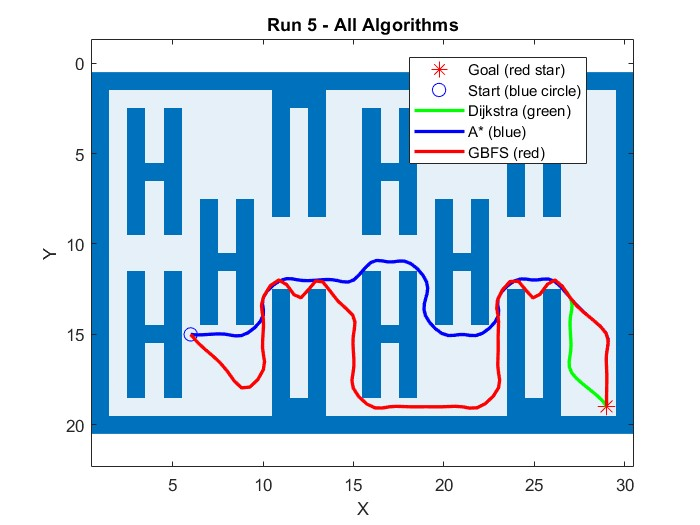
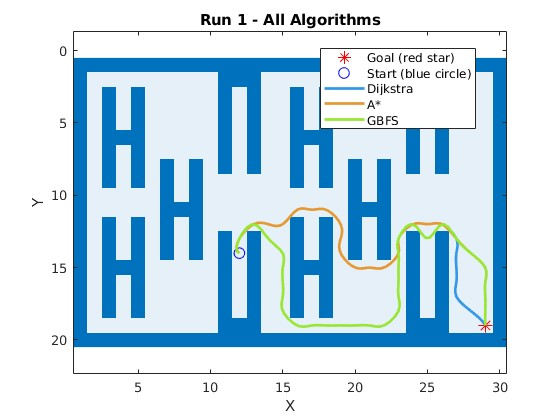
fixed colors and improved readme

diff --git a/simulation4.m b/simulation4.m
@@ -67,7 +67,9 @@ for i = 1:num_runs
     plot(start_points(i, 2), start_points(i, 1), 'bo', 'MarkerSize', 8);  % Plot random start point (blue circle)
     
     % Colors for each algorithm: Dijkstra = green, A* = blue, GBFS = red
-    algorithm_colors = {'g', 'b', 'r'}; 
+    colors = {[0.2 0.6 0.9], [0.9 0.6 0.2], [0.6 0.9 0.2]};
+
+    algorithm_colors = colors;%{'g', 'b', 'r'}; 
     
     for j = 1:num_algorithms
         planner_name = algorithms{j};
@@ -107,13 +109,13 @@ for i = 1:num_runs
             path_interp = interp1(t, path, t_interp, 'spline');  % Spline interpolation
 
             % Plot the smoothed path with assigned color for each algorithm
-            plot(path_interp(:, 2), path_interp(:, 1), algorithm_colors{j}, 'LineWidth', 2);  
+            plot(path_interp(:, 2), path_interp(:, 1), 'Color', algorithm_colors{j}, 'LineWidth', 2);  
         end
         costs(i, j) = cost;  % Store cost
     end
     
     % Update the legend for the current plot
-    legend({'Goal (red star)', 'Start (blue circle)', 'Dijkstra (green)', 'A* (blue)', 'GBFS (red)'}, 'Location', 'best');
+    legend({'Goal (red star)', 'Start (blue circle)', 'Dijkstra', 'A*', 'GBFS'}, 'Location', 'best');
     
     hold off;
     pause(1);  % Pause to allow viewing before proceeding to the next run

diff --git a/README1.md b/README1.md
@@ -1,15 +1,13 @@
 # Scenario Description: Robot Path Planning in a Warehouse
+We have a warehouse robot which is tasked with fetching items from any shelf in the warehouse and bringing them to a conveyor belt for packaging. This means that the start and endpoint of every fetch is the same. To simplify the model we can say that we only go oneway: from the shelf to the drop off point.
 
-In this study, we simulate the task of a robot operating in a warehouse environment. 
-The robot is tasked with efficiently transporting goods between various storage locations. 
-Effective navigation is crucial to ensure smooth operations, minimize transport costs, and reduce time delays. 
 For this purpose, we compare three different path-planning algorithms: **Dijkstra**, **A\***, and **Greedy Best-First Search (GBFS)**. 
-These algorithms are tested under different conditions and evaluated based on key metrics such as path cost and path length. Additionally, we consider other relevant factors, such as the number of required recomputations when obstacles are introduced dynamically during the robot's movement.
+These algorithms are tested under different conditions and evaluated based on key metrics such as time to compute the path and path length.
 
 ## Motivation and Goal
 
 The goal of this study is to improve the operational efficiency of warehouse robots by determining the most suitable path-planning algorithm. 
-We aim to identify the algorithm that minimizes transportation costs while ensuring reliability and timely delivery of goods, even in dynamic and uncertain environments.
+We aim to identify the algorithm that minimizes transportation costs, which means the length of the path and the time to compute it 
 
 ## Hypothesis
 
@@ -31,164 +29,82 @@ The algorithms are implemented in MATLAB, and custom functions are used to visua
 
 The environment is a grid-based warehouse layout with varying storage and obstacle placements. Random start and goal points are selected for each run, ensuring fair comparison across algorithms. The key parameters examined include:
 
-- **Path cost**: Total cost of the path, calculated based on the grid distance.
+
 - **Path length**: Number of grid squares traveled by the robot.
-- **Recomputations**: The number of times the robot must recompute its path when dynamic obstacles appear.
+- **Computation Time**: Total time to execute the algorithm
 
 ## Statistical Tools
-
-Several statistical methods are used to evaluate the performance of each algorithm. For continuous metrics like path cost and length, we generate histograms to observe distribution patterns. Additionally, we calculate the mean and variance of costs to identify trends. For dynamic scenarios, we track the frequency of recomputations and plot how often each algorithm is forced to recalculate the path. In some cases, we also use box plots to visualize the distribution of path lengths and costs, including any outliers.
+We indentify the average and standard deviation for all of our algorithms.
 
 ---
 
 # Path Length Comparison for Different Algorithms
 
-## Overview
-The performance of **Dijkstra**, **A\***, and **GBFS** algorithms was evaluated based on the **path lengths** they generated during navigation in a 20x20 grid-based warehouse environment. 
+## The Setup
+The performance of **Dijkstra**, **A\***, and **GBFS** algorithms was evaluated in our virtual Warehouse. 
+![Path Length Comparison](res/warehouse.png)\
+Where the blue square is the drop off location and the black squares are the shelves and walls.\
+We then did two sets of runs. One with close targets and one with far targets.
 
-The goal position was set at **[18, 29]**, and random start points were generated for each of the five runs. The algorithms were compared based on the length of the paths they generated to the goal.
+## Run Sets
+### Run Set 1
+In the first Run Set we performed 30 fetches wich were up to 15 length units away from our drop off point.\
+![Path Length Comparison](res/close_pickup_start_points.png)\
+We executed all three algorithms on these 30 pickup points and recorded the length of their path as well as their time to calculate it.
+#### Analysis
+![Path Length Comparison](res/close_pickup_res.png)\
+In this path length comparison we see the bars which indicate the average path length for this algorithm for all 30 runs. The error bars show the standard deviation.\
+We can see, that dijkstra and a* arrived at very similar values, while gbfs selects longer paths on average. It is also noteworthy, that gbfs has a lot higher variability in its results.\
+For us this means, that both, dijkstra as well as a* seem feasible for now, while gbfs does not seem like a good fit.\
+![Path Length Comparison](res/close_pickup_time.png)\
+In this graph we can see the average measured time to compute the path for the 30 start points. The error bars again show the standard deviation in this set.\
+It is easy to see, that dijkstra takes by far the longest to compute and has the highes variability in its computation times. Whilst A* and GBFS are similar, GBFS is faster on average.\
+This means for us, that A* is the preferred algorithm due to its similar performance in path length to dijkstra, but significantly better performance in terms of time.
 
----
-
-### Key Statistics
-
- Algorithm      MeanPathLength    MeanTime    MeanCost
-    ____________    ______________    ________    ________
-
-    {'Dijkstra'}          23.4          0.2595     26.126 
-    {'A*'      }        24.033        0.038993     26.527 
-    {'GBFS'    }        28.733        0.011029     32.343 
-
-The mean and median path lengths for all algorithms are quite similar. Dijkstra and A\* algorithms demonstrated more optimal paths, while GBFS exhibited slightly less optimal performance.
-
----
-
-### Path Length Per Run
-
-Below is a bar chart comparing the path length per run for the different algorithms:
-
-![Path Length Comparison](Images/Path_Length.jpg)
-
-#### Observations:
-1. **Run 1**: All algorithms produced similar path lengths (~23 nodes).
-2. **Run 2**: A\* and GBFS resulted in slightly shorter paths (~14 nodes) compared to Dijkstra (~16 nodes).
-3. **Run 3**: All algorithms showed similar performance with longer paths (~30 nodes).
-4. **Run 4**: Dijkstra found a slightly shorter path (~6 nodes), whereas A\* and GBFS produced identical paths (~6 nodes).
-5. **Run 5**: All algorithms produced similar path lengths (~13 nodes).
-
----
-
-# Cost Results
-
-### Key Statistics
-
- Algorithm      MeanPathLength    MeanTime    MeanCost
-    ____________    ______________    ________    ________
-
-    {'Dijkstra'}          23.4          0.2595     26.126 
-    {'A*'      }        24.033        0.038993     26.527 
-    {'GBFS'    }        28.733        0.011029     32.343 
+### Run Set 2
+In the second set of runs we performed 30 more fetches from locations which were more than 15 length units away from the drop off point.\
+![Path Length Comparison](res/far_pickup_start_points.png)\
+We executed all three algorithms on these 30 pickup points and recorded the length of their path as well as their time to calculate it.\
+![Path Length Comparison](res/far_pickup_res.png)\
+In this path length comparison we see the bars which indicate the average path length for this algorithm for all 30 runs. The error bars show the standard deviation.\
+Again we can see, that dijkstra and a* arrived at very similar values, while gbfs selects longer paths on average. \
+This confirms our data from the first set of runs, although the differences are now more obvious.\
+![Path Length Comparison](res/far_pickup_time.png)\
+In this graph we can see the average measured time to compute the path for the 30 start points. The error bars again show the standard deviation in this set.\
+Dijkstra again takes the longest to calculate, while A* and gbfs are close together.\
+Although the relative differences between A* and Dijkstra are now significantly smaller than in the first set of runs, A* still outperforms Dijkstra.
 
 
-### Cost Per Run
-
-![Cost Comparison](Images/Cost2.jpg)
-
-#### Discussion:
-
-1. **Run 1**: Dijkstra and GBFS incurred higher costs (~25), while A\* had a slightly lower cost (~23). This suggests that A* may be more efficient in simpler scenarios.
-2. **Run 2**: A\* and GBFS produced identical costs (~14), while Dijkstra had a slightly higher cost (~16), likely due to its computation of the most optimal path.
-3. **Run 3**: All algorithms exhibited the same cost (~25), demonstrating convergence when dealing with more complex paths.
-4. **Run 4**: The costs varied noticeably, with Dijkstra being the most efficient (~5), and A\* and GBFS incurring similar costs (~7).
-5. **Run 5**: All algorithms produced similar costs (~20), with only minor differences.
-
----
-
-# Conclusion (Cost and Path Length)
-
-### Summary of Findings
-
-Based on the simulation results, both **path length** and **cost** show consistent patterns across the three algorithms:
-
-1. **Dijkstra's Algorithm**:
-   - **Path Length**: Dijkstra consistently found the shortest paths but at the expense of slightly higher computational cost.
-   - **Cost**: The cost associated with Dijkstra was typically higher, particularly in less complex environments. However, it performed well in complex layouts by finding more optimal paths.
-
-2. **A\* Algorithm**:
-   - **Path Length**: A* delivered efficient paths, striking a balance between path length and computational expense.
-   - **Cost**: A* incurred lower costs compared to Dijkstra, making it a good option for environments where both path optimality and computational efficiency are important.
-
-3. **GBFS Algorithm**:
-   - **Path Length**: GBFS was faster but often produced suboptimal paths, especially in more complex environments.
-   - **Cost**: GBFS had higher costs than A*, and in some cases comparable to Dijkstra. It is better suited for simpler environments where speed is the priority.
-
----
-
-# Additional Algorithm Performance Analysis: Dijkstra, A*, and GBFS
-
- Algorithm      MeanPathLength    MeanTime    MeanCost
-    ____________    ______________    ________    ________
-
-    {'Dijkstra'}          23.4          0.2595     26.126 
-    {'A*'      }        24.033        0.038993     26.527 
-    {'GBFS'    }        28.733        0.011029     32.343 
-
-
----
-
-## 1. Path Length Analysis:
-- **Dijkstra** and **A*** both have the same **mean path length** of **11.4**, while **GBFS** shows a higher path length with **13.0**. This implies that **GBFS** generally finds longer paths to the goal, which could be due to its heuristic nature.
-- The **median path lengths** of **9** for all three algorithms suggest that while **GBFS** has a higher mean path length, the typical path length it finds is similar to Dijkstra and A*. However, the higher mean shows it occasionally finds longer paths, which skews the average.
-
-## 2. Time Performance Analysis:
-- **Dijkstra** is significantly slower, with a mean time of **0.1935 seconds**, compared to **A*** (**0.0087 seconds**) and **GBFS** (**0.0038 seconds**). 
-- **A*** is more efficient than Dijkstra, using heuristics to prioritize paths and speed up computation, while still producing optimal paths.
-- **GBFS** is the fastest algorithm but sacrifices optimality in terms of path length and cost.
-
-## 3. Cost Analysis:
-- **Dijkstra** and **A*** have very similar costs (**11.6** and **11.94**, respectively), meaning both algorithms found paths with minimal cost.
-- **GBFS** has a higher mean cost of **14.04**, reflecting that it tends to find less optimal paths because it prioritizes speed over path optimality.
-
----
 
 ## Visual Results (Additional Analysis)
+We also visualized every run in the second set to get a better overview of the data.
 
 ### 1. Path Lengths per Run
-This diagram shows the path lengths found by each algorithm for 5 different runs.
+This diagram shows the path lengths found by each algorithm for 30 different runs in the second set.
 
 ![Paths Length](Images/Path_lengths.jpg)
 
 ### 2. Time Taken per Run
-This diagram shows the computation time taken by each algorithm for 5 different runs.
+This diagram shows the computation time taken by each algorithm for 30 different runs in the second.
 
 ![Time Diagram](Images/Time_diagram.jpg)
 
-### 3. Frequency of Path Lengths
-This histogram shows the distribution of path lengths found by each algorithm over 5 runs.
-
-![Frequency](Images/Frequency.jpg)
-
 ### 4. Paths Visualized on the Grid Map
-This image shows the paths found by each algorithm (color-coded) on the grid map for various start and goal points.
+This image shows the paths found by each algorithm (color-coded) on the grid map for various start points. This may help to understand the working of the algorithms
 
-![Map](Images/Map.jpg)
 ![Map](Images/Map1.jpg)
-![Map](Images/Map2.jpg)
 ![Map](Images/Map3.jpg)
 ![Map](Images/Map4.jpg)
 
 ---
 
 ### Final Thoughts
-    Algorithm      MeanPathLength    MeanTime    MeanCost
-    ____________    ______________    ________    ________
+Algorithm | MeanPathLength | MeanTime | MeanCost
+---|---|---|---
+Dijkstra | 23.4 | 0.2595 | 26.126
+A* | 24.033 | 0.038993 | 26.527
+GBFS | 28.733 | 0.011029 |32.343 
 
-    {'Dijkstra'}          23.4          0.2595     26.126 
-    {'A*'      }        24.033        0.038993     26.527 
-    {'GBFS'    }        28.733        0.011029     32.343 
-
-
->> 
-- **A\*** proved to be the most balanced algorithm in terms of both **path length** and **cost**, offering efficient paths with relatively lower costs.
+- **A\*** proved to be the most balanced algorithm in terms of both **path length** and **time**, offering efficient paths with relatively lower computation times.
 - **Dijkstra** is more suited for environments that require high path accuracy but may incur higher computational expenses.
 - **GBFS** is a viable choice for simpler, obstacle-free environments where computational speed is more critical than path accuracy.
